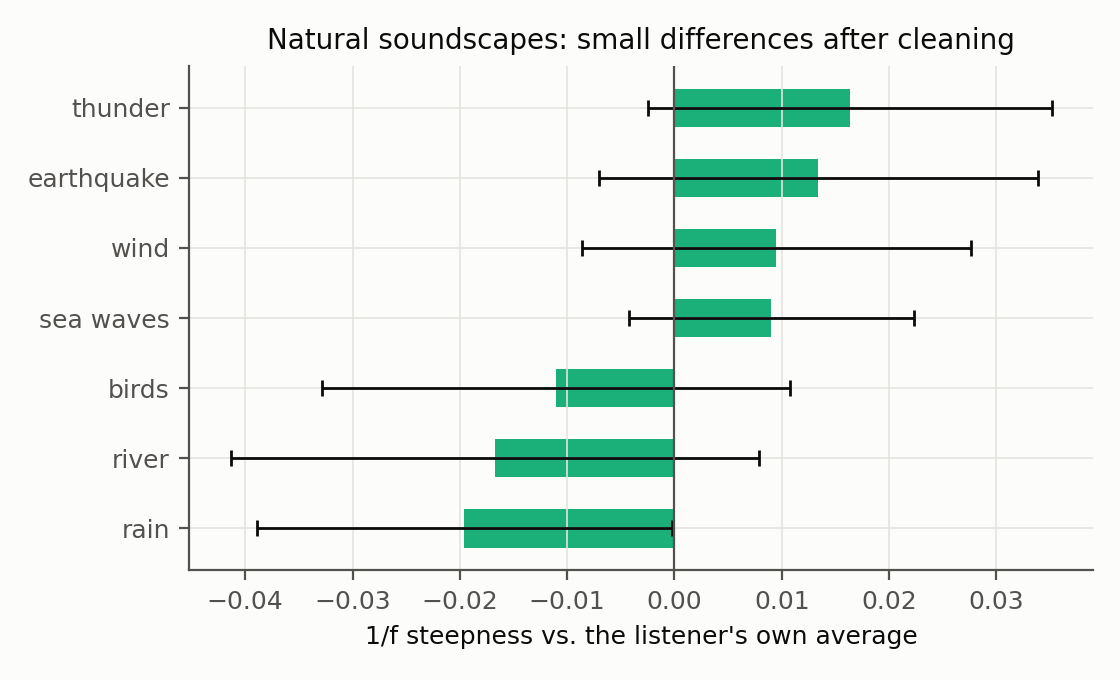
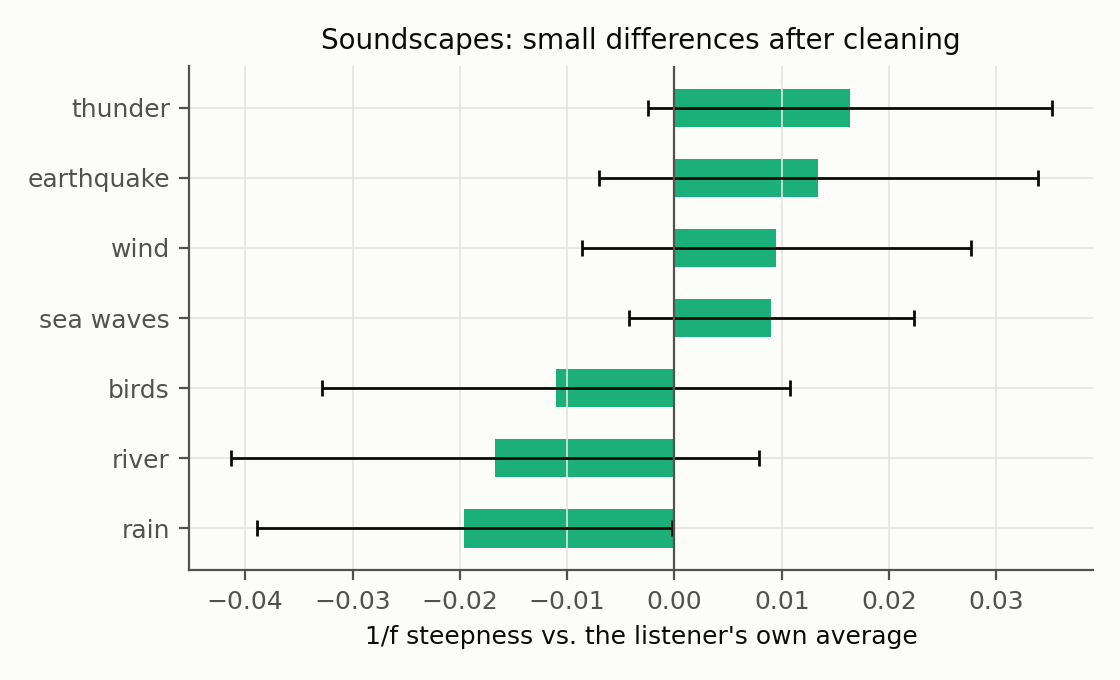
Both pages: 'sc' = SuperCollider imitation; movement-alpha by stimulus set; audio files received

Changed region(s): [[0.2188, 0.0309, 0.9062, 0.0926]]

diff --git a/es/index.html b/es/index.html
@@ -107,7 +107,7 @@ footer { margin-top: 60px; padding-top: 16px; border-top: 1px solid var(--line);
 <section>
   <h2>Qué hicimos</h2>
   <ol class="steps">
-    <li><b>Los sonidos.</b> 13 sonidos sintéticos creados en SuperCollider, cada bloque variando una propiedad (altura, envolvente, ancho de banda o parciales), y 14 grabaciones de paisajes sonoros naturales (pájaros, lluvia, río, olas, trueno, viento, terremoto), en dos versiones cada uno. Todos duraban 50 segundos, al mismo volumen.</li>
+    <li><b>Los sonidos.</b> 13 sonidos sintéticos creados en SuperCollider, cada bloque variando una propiedad (altura, envolvente, ancho de banda o parciales), y 7 paisajes sonoros naturales (pájaros, lluvia, río, olas, trueno, viento, terremoto), cada uno escuchado dos veces: primero como una imitación creada en SuperCollider y después como la grabación real. Todos duraban 50 segundos, al mismo volumen.</li>
     <li><b>El cerebro.</b> Mientras escuchaban, cada persona llevaba un gorro con 64 sensores (EEG) que captan los diminutos ritmos eléctricos del cerebro a través del cuero cabelludo. También registramos 3 minutos de reposo en silencio, con los ojos cerrados, antes y después.</li>
     <li><b>La experiencia.</b> Tras cada sonido, valoraban cuánto les agradaba, cuánto les activaba y cuánto control sentían, nombraban una emoción y describían la imagen que les evocaba: su color, tamaño, temperatura, textura y movimiento.</li>
   </ol>
@@ -139,7 +139,7 @@ footer { margin-top: 60px; padding-top: 16px; border-top: 1px solid var(--line);
     <div class="head"><span class="num">Hallazgo 1</span><span class="badge solid">sólido</span></div>
     <h3>Escuchar "enciende" el cerebro, sobre todo en la parte posterior de la cabeza</h3>
     <figure>
-      <div class="plate small"><img src="../figs/es/alpha_listening.png?v=202611181200" alt="Mapa de la cabeza visto desde arriba: la bajada de alfa es mayor (azul oscuro) en la parte posterior y menor (claro) delante y en los lados"></div>
+      <div class="plate small"><img src="../figs/es/alpha_listening.png?v=202611181330" alt="Mapa de la cabeza visto desde arriba: la bajada de alfa es mayor (azul oscuro) en la parte posterior y menor (claro) delante y en los lados"></div>
       <figcaption>La cabeza vista desde arriba (nariz arriba). Azul más oscuro = mayor bajada de alfa al escuchar respecto al reposo. El alfa bajó en todas partes, al menos 4 puntos porcentuales, así que la escala empieza en 4 para que se vea dónde bajó más.</figcaption>
     </figure>
     <div class="label">Qué vimos</div>
@@ -154,7 +154,7 @@ footer { margin-top: 60px; padding-top: 16px; border-top: 1px solid var(--line);
     <div class="head"><span class="num">Hallazgo 2</span><span class="badge promising">prometedor</span></div>
     <h3>Cuanto más movimiento imaginaban, menos alfa tenían</h3>
     <figure>
-      <div class="plate"><img src="../figs/es/movement_alpha.png?v=202611181200" alt="Gráfico de barras: el alfa de toda la cabeza está por encima de la media del oyente con imágenes quietas y baja escalón a escalón con movimiento lento, moderado y rápido"></div>
+      <div class="plate"><img src="../figs/es/movement_alpha.png?v=202611181330" alt="Gráfico de barras: el alfa de toda la cabeza está por encima de la media del oyente con imágenes quietas y baja escalón a escalón con movimiento lento, moderado y rápido"></div>
       <figcaption>Cada barra compara a las personas consigo mismas: cuánto alfa tenían con ese tipo de imagen, respecto a su propia media. Las líneas negras muestran la incertidumbre.</figcaption>
     </figure>
     <div class="label">Qué vimos</div>
@@ -162,7 +162,7 @@ footer { margin-top: 60px; padding-top: 16px; border-top: 1px solid var(--line);
     <div class="label">Por qué importa</div>
     <p>Une una medida cerebral con lo que las personas vivieron, que es justo de lo que trata el proyecto: el sonido percibido como algo que se mueve en el espacio. No se explica por lo activador o agradable que resultaba el sonido, y se mantiene al eliminar de los registros la actividad de ojos y músculos. Es aún más claro cuando la persona mencionaba expresamente una velocidad.</p>
     <div class="label">Un detalle intrigante</div>
-    <p>La relación va en la misma dirección con los sonidos sintéticos de SuperCollider y con los paisajes naturales, y parecía algo más fuerte con los sintéticos. Una idea: con una grabación de lluvia, la persona <i>reconoce</i> la fuente y ya sabe cómo se mueve; con un sonido sintético abstracto no hay fuente, así que el oyente tiene que <i>construir</i> el movimiento a partir del propio sonido. Pero la diferencia entre los dos tipos de sonido es pequeña y está lejos de ser estadísticamente clara, así que por ahora es solo una idea para el próximo estudio.</p>
+    <p>La relación fue más o menos igual de fuerte con los sonidos sintéticos abstractos y con las imitaciones de los paisajes hechas en SuperCollider, pero prácticamente desapareció con las grabaciones reales. Una idea: con una grabación de lluvia, la persona <i>reconoce</i> la fuente y ya sabe cómo se mueve; con un sonido sintetizado, aunque imite la lluvia, el oyente tiene que <i>construir</i> el movimiento a partir del propio sonido. La diferencia entre grabaciones y sonidos sintetizados aún no es estadísticamente clara, y las grabaciones reales siempre sonaron al final, así que por ahora es una hipótesis para el próximo estudio.</p>
     <div class="label">Cuidado</div>
     <p>Es una tendencia de grupo: algo más de la mitad de los oyentes (16 de 27) la muestran por sí solos. Es pequeña, está repartida por la cabeza en lugar de solo en la parte posterior, y la encontramos buscando entre muchas relaciones posibles. Hay que confirmarla con participantes nuevos.</p>
   </article>
@@ -171,7 +171,7 @@ footer { margin-top: 60px; padding-top: 16px; border-top: 1px solid var(--line);
     <div class="head"><span class="num">Hallazgo 3</span><span class="badge unclear">aún no se sabe</span></div>
     <h3>Cada tipo de sonido natural parecía dejar una huella distinta, pero puede venir de ojos y músculos</h3>
     <figure>
-      <div class="plate"><img src="../figs/es/soundscapes.png?v=202611181200" alt="Barras horizontales para siete paisajes sonoros: trueno y terremoto los más altos, lluvia y río los más bajos, todos con barras de error amplias"></div>
+      <div class="plate"><img src="../figs/es/soundscapes.png?v=202611181330" alt="Barras horizontales para siete paisajes sonoros: trueno y terremoto los más altos, lluvia y río los más bajos, todos con barras de error amplias"></div>
       <figcaption>La medida que más seguía diferenciando los paisajes tras la limpieza: la "pendiente" del espectro de la señal cerebral. Una pendiente más inclinada suele interpretarse como un estado cerebral más tranquilo, menos excitado. Las líneas negras muestran la incertidumbre, que es grande.</figcaption>
     </figure>
     <div class="label">Qué vimos</div>
@@ -184,7 +184,7 @@ footer { margin-top: 60px; padding-top: 16px; border-top: 1px solid var(--line);
     <div class="head"><span class="num">Hallazgo 4</span><span class="badge promising">prometedor</span></div>
     <h3>Entre los sonidos sintéticos, lo que más importó fue la envolvente</h3>
     <figure>
-      <div class="plate"><img src="../figs/es/envelope_theta.png?v=202611181200" alt="Gráfico de líneas de theta central para las cuatro envolventes, con un pico en la percusiva y una línea gris por oyente"></div>
+      <div class="plate"><img src="../figs/es/envelope_theta.png?v=202611181330" alt="Gráfico de líneas de theta central para las cuatro envolventes, con un pico en la percusiva y una línea gris por oyente"></div>
       <figcaption>Bloque 2: proporción de theta, un ritmo lento (4–8 ciclos por segundo), en el centro de la cabeza para cada envolvente. Azul = media de todos los oyentes con su incertidumbre; líneas grises = cada oyente.</figcaption>
     </figure>
     <p>Cambiar la envolvente (neutra, percusiva, de viento, on-off) cambió la actividad cerebral. La envolvente percusiva destacó: más actividad theta y, de forma aún más clara, una pendiente del espectro más inclinada en el centro de la cabeza. Cambiar la altura, el ancho de banda o los parciales no produjo diferencias claras. Los sonidos de cada bloque se pusieron siempre en el mismo orden, así que hay que confirmarlo.</p>
@@ -194,7 +194,7 @@ footer { margin-top: 60px; padding-top: 16px; border-top: 1px solid var(--line);
     <div class="head"><span class="num">Hallazgo 5</span><span class="badge solid">sólido</span></div>
     <h3>Las personas coinciden en cómo se sienten los sonidos, sobre todo en agrado y tamaño</h3>
     <figure>
-      <div class="plate"><img src="../figs/es/ratings.png?v=202611181200" alt="Gráficos de puntos con el agrado, la activación y el control medios de cada uno de los 27 sonidos, coloreados por bloque"></div>
+      <div class="plate"><img src="../figs/es/ratings.png?v=202611181330" alt="Gráficos de puntos con el agrado, la activación y el control medios de cada uno de los 27 sonidos, coloreados por bloque"></div>
       <figcaption>Valoración media de cada sonido (1–7) con su incertidumbre. Izquierda: agrado (valencia). Centro: activación. Derecha: sensación de control (dominancia).</figcaption>
     </figure>
     <p>Los sonidos se diferenciaron claramente en agrado, activación y control, y en el tamaño, la temperatura y el movimiento de las imágenes que evocaban. Cada persona es muy distinta, pero las medias del grupo son muy consistentes, sobre todo en agrado y tamaño imaginado. Pájaros y río fueron los más agradables; el bloque de parciales, la envolvente on-off y el terremoto, de los que menos.</p>
@@ -203,13 +203,13 @@ footer { margin-top: 60px; padding-top: 16px; border-top: 1px solid var(--line);
   <article class="finding">
     <div class="head"><span class="num">Hallazgo 6</span><span class="badge promising">prometedor</span></div>
     <h3>Los cerebros de los oyentes solo se sincronizaron con sonidos llenos de eventos, como el trueno</h3>
-    <p>Comprobamos si las señales cerebrales de distintas personas suben y bajan en los mismos momentos al escuchar el mismo sonido, como ocurre con películas o música. En general no fue así: con la mayoría de sonidos la sincronía no fue mayor que en reposo. La excepción fueron los sonidos con eventos claros y repentinos, sobre todo la grabación de trueno, y también las olas. Tiene sentido: nuestros sonidos son sobre todo texturas estables que evolucionan despacio, así que hay pocos momentos compartidos a los que los cerebros puedan "engancharse". Cuando lleguen los audios podremos comprobar si la sincronía sigue al número de eventos sonoros.</p>
+    <p>Comprobamos si las señales cerebrales de distintas personas suben y bajan en los mismos momentos al escuchar el mismo sonido, como ocurre con películas o música. En general no fue así: con la mayoría de sonidos la sincronía no fue mayor que en reposo. La excepción fueron los sonidos con eventos claros y repentinos, sobre todo la grabación de trueno, y también las olas. Tiene sentido: nuestros sonidos son sobre todo texturas estables que evolucionan despacio, así que hay pocos momentos compartidos a los que los cerebros puedan "engancharse". Con los audios ya podemos comprobar si la sincronía sigue al número de eventos sonoros.</p>
   </article>
 
   <article class="finding">
     <div class="head"><span class="num">Hallazgo 7</span><span class="badge unclear">aún no se sabe</span></div>
-    <h3>Sintéticos frente a naturales, y las dos versiones de cada paisaje</h3>
-    <p>Estas comparaciones muestran diferencias, pero no podemos interpretarlas por cómo estaba ordenada la sesión (ver abajo). Cuando tenemos en cuenta el momento de la sesión, la diferencia entre las dos versiones de los paisajes desaparece.</p>
+    <h3>Sonidos abstractos frente a paisajes, e imitaciones frente a grabaciones reales</h3>
+    <p>Las imitaciones de SuperCollider fueron con menos alfa y más actividad lenta (delta) que las grabaciones reales, y el bloque de paisajes se diferenció de los bloques abstractos. Pero no podemos interpretar estas diferencias por cómo estaba ordenada la sesión (ver abajo): los paisajes siempre iban al final, y cada imitación siempre antes que su grabación. Cuando tenemos en cuenta el momento de la sesión, la diferencia entre imitaciones y grabaciones desaparece.</p>
   </article>
 </section>
 
@@ -217,14 +217,14 @@ footer { margin-top: 60px; padding-top: 16px; border-top: 1px solid var(--line);
   <h2>La principal limitación, en un párrafo</h2>
   <div class="box warn">
     <h3>El orden de los sonidos no se barajó lo suficiente</h3>
-    <p>Todo el mundo escuchó los paisajes al final, la primera versión de cada paisaje antes que la segunda, y los sonidos de cada bloque sintético en el mismo orden. En una sesión larga la gente se cansa y se adormece, y eso por sí solo cambia la señal cerebral (el alfa era más alto en el reposo final que en el inicial). Así que cuando dos tipos de sonido iban siempre en el mismo orden, no podemos saber si una diferencia viene del sonido o del momento.</p>
+    <p>Todo el mundo escuchó los paisajes al final, la imitación de SuperCollider de cada paisaje antes que la grabación real, y los sonidos de cada bloque sintético en el mismo orden. En una sesión larga la gente se cansa y se adormece, y eso por sí solo cambia la señal cerebral (el alfa era más alto en el reposo final que en el inicial). Así que cuando dos tipos de sonido iban siempre en el mismo orden, no podemos saber si una diferencia viene del sonido o del momento.</p>
   </div>
 </section>
 
 <section>
   <h2>Próximos pasos</h2>
   <ol class="steps">
-    <li><b>Analizar los propios sonidos.</b> Medir la acústica de cada audio (ataques, modulaciones, brillo, rugosidad) y los parámetros de SuperCollider, para ver qué propiedades del sonido impulsan el movimiento imaginado y la respuesta cerebral.</li>
+    <li><b>Analizar los propios sonidos.</b> Ya tenemos los 27 audios y el código de SuperCollider. Siguiente paso: medir la acústica de cada archivo (sonoridad, ataques, modulaciones, brillo, rugosidad) para ver qué propiedades del sonido impulsan el movimiento imaginado y la respuesta cerebral.</li>
     <li><b>Hecho:</b> eliminada de los registros la actividad de ojos y músculos; medida la sincronía cerebral entre oyentes.</li>
     <li><b>Hecho:</b> una compañera codificó por su cuenta, sin ver la nuestra, una muestra de 120 descripciones de texto libre. El acuerdo fue casi perfecto en tamaño y temperatura, muy alto en intensidad del movimiento y bueno en dirección del movimiento.</li>
     <li><b>Diseñar el estudio principal</b> con el orden barajado para cada persona, más participantes y una escala sencilla de 1 a 7 para el movimiento imaginado, poniendo a prueba el hallazgo 2 y la idea de "movimiento construido frente a reconocido" como hipótesis prerregistradas.</li>
@@ -260,7 +260,7 @@ footer { margin-top: 60px; padding-top: 16px; border-top: 1px solid var(--line);
         <tr><td>Bajada de α, parieto-occipital frente a temporal</td><td>d<sub>z</sub> = −0,60 [−0,92; −0,32], q = ,040</td></tr>
         <tr><td>Movimiento → α (global, intra-oyente)</td><td>β = −0,033, r<sub>rm</sub> = −,13, q = ,005; con valencia, activación y dominancia β = −0,033, con gamma (indicador de EMG) β = −0,030, con efecto cruzado del estímulo β = −0,030 (todas p &lt; ,001); β = −0,062 cuando se indica la velocidad</td></tr>
         <tr><td>Movimiento → α con pendientes aleatorias</td><td>global p = ,13, parieto-occipital p = ,005; pendientes por oyente en dos etapas d<sub>z</sub> = −0,41, p = ,044 (16/27 negativas); sin diferencia posterior &gt; temporal (p = ,11)</td></tr>
-        <tr><td>Movimiento × tipo de estímulo</td><td>sintéticos β = −0,029 (p = ,018); paisajes β = −0,018 (p = ,12); interacción p = ,61</td></tr>
+        <tr><td>Movimiento × tipo de estímulo</td><td>sintéticos abstractos β = −0,029 (p = ,018); imitaciones de SuperCollider β = −0,028 (p = ,056); grabaciones reales β = −0,006 (p = ,71); grabación × movimiento p = ,64 (frente a todos los sintetizados), p = ,48 (frente a sus imitaciones)</td></tr>
         <tr><td>Movimiento → α, medidas originales (sin ICA)</td><td>β = −0,037, p &lt; ,0001; con efecto cruzado del estímulo p = ,0002</td></tr>
         <tr><td>Categoría de paisaje (exponente 1/f, global)</td><td>tras ICA F = 2,52, p<sub>GG</sub> = ,045, η²<sub>p</sub> = ,09 (clúster de canales q = ,026); antes de ICA F = 4,05, p<sub>GG</sub> = ,003</td></tr>
         <tr><td>Correlación entre sujetos (CorrCA, 3 componentes)</td><td>estímulos frente a reposo d<sub>z</sub> = −0,01, p = ,96; trueno ISC = ,046, p = ,002 (q = ,054); olas ,031, p = ,012</td></tr>
@@ -275,7 +275,7 @@ footer { margin-top: 60px; padding-top: 16px; border-top: 1px solid var(--line);
 </section>
 
 <footer>
-  <p>Resultados preliminares de un estudio piloto en curso; las cifras pueden cambiar antes de la publicación. Solo se muestran resultados de grupo. Pendiente: el significado de la etiqueta "sc" de la primera versión de los paisajes.</p>
+  <p>Resultados preliminares de un estudio piloto en curso; las cifras pueden cambiar antes de la publicación. Solo se muestran resultados de grupo.</p>
 </footer>
 </div>
 </body>

diff --git a/index.html b/index.html
@@ -107,7 +107,7 @@ footer { margin-top: 60px; padding-top: 16px; border-top: 1px solid var(--line);
 <section>
   <h2>What we did</h2>
   <ol class="steps">
-    <li><b>The sounds.</b> 13 synthetic sounds built in SuperCollider, each block changing one property (pitch, envelope, bandwidth or partials), and 14 recordings of natural soundscapes (birds, rain, river, sea waves, thunder, wind, earthquake), in two versions each. Every sound lasted 50 seconds, all at the same loudness.</li>
+    <li><b>The sounds.</b> 13 synthetic sounds built in SuperCollider, each block changing one property (pitch, envelope, bandwidth or partials), and 7 natural soundscapes (birds, rain, river, sea waves, thunder, wind, earthquake), each heard twice: first as an imitation built in SuperCollider, then as the real recording. Every sound lasted 50 seconds, all at the same loudness.</li>
     <li><b>The brain.</b> While listening, each person wore a cap with 64 sensors (EEG) that pick up the tiny electrical rhythms of the brain through the scalp. We also recorded 3 minutes of quiet rest, eyes closed, before and after.</li>
     <li><b>The experience.</b> After each sound, people rated how pleasant, how activating and how "in control" it felt, named an emotion, and described the image it evoked: its colour, size, temperature, texture and movement.</li>
   </ol>
@@ -139,7 +139,7 @@ footer { margin-top: 60px; padding-top: 16px; border-top: 1px solid var(--line);
     <div class="head"><span class="num">Finding 1</span><span class="badge solid">solid</span></div>
     <h3>Listening switches the brain on, especially at the back of the head</h3>
     <figure>
-      <div class="plate small"><img src="figs/en/alpha_listening.png?v=202611181200" alt="Head map seen from above: the alpha drop is largest (dark blue) over the back of the head and smallest (pale) at the front and sides"></div>
+      <div class="plate small"><img src="figs/en/alpha_listening.png?v=202611181330" alt="Head map seen from above: the alpha drop is largest (dark blue) over the back of the head and smallest (pale) at the front and sides"></div>
       <figcaption>The head seen from above (nose at the top). Darker blue = a bigger drop in alpha while listening compared with resting. Alpha dropped everywhere, by at least 4 percentage points, so the colour scale starts at 4 to show where the drop was largest.</figcaption>
     </figure>
     <div class="label">What we saw</div>
@@ -154,7 +154,7 @@ footer { margin-top: 60px; padding-top: 16px; border-top: 1px solid var(--line);
     <div class="head"><span class="num">Finding 2</span><span class="badge promising">promising</span></div>
     <h3>The more movement people imagined, the less alpha they had</h3>
     <figure>
-      <div class="plate"><img src="figs/en/movement_alpha.png?v=202611181200" alt="Bar chart: alpha over the whole head is above the listener's average for still images and falls step by step for slow, moderate and fast imagined movement"></div>
+      <div class="plate"><img src="figs/en/movement_alpha.png?v=202611181330" alt="Bar chart: alpha over the whole head is above the listener's average for still images and falls step by step for slow, moderate and fast imagined movement"></div>
       <figcaption>Each bar compares people with themselves: how much alpha they had with that kind of image, relative to their own average. The black lines show the uncertainty.</figcaption>
     </figure>
     <div class="label">What we saw</div>
@@ -162,7 +162,7 @@ footer { margin-top: 60px; padding-top: 16px; border-top: 1px solid var(--line);
     <div class="label">Why it matters</div>
     <p>It links a brain measure to what people actually experienced, which is exactly what the project is about: sound perceived as something that moves in space. It is not explained by how activating or pleasant the sound felt, and it survives removing eye and muscle activity from the recordings. It is clearer still when people explicitly mentioned a speed.</p>
     <div class="label">An intriguing detail</div>
-    <p>The link goes in the same direction for the synthetic SuperCollider sounds and for the natural soundscapes, and looked somewhat stronger for the synthetic ones. One idea: with a recording of rain, people <i>recognise</i> the source and already know how it moves; with an abstract synthetic sound there is no source, so the listener has to <i>build</i> the movement from the sound itself. But the difference between the two kinds of sound is small and far from statistically clear, so for now this is only an idea to test in the next study.</p>
+    <p>The link was about equally strong for the abstract synthetic sounds and for the SuperCollider imitations of the soundscapes, but practically absent for the real recordings. One idea: with a recording of rain, people <i>recognise</i> the source and already know how it moves; with a synthesised sound, even one imitating rain, the listener has to <i>build</i> the movement from the sound itself. The difference between recordings and synthesised sounds is not yet statistically clear, and the real recordings always came last, so for now this is a hypothesis to test in the next study.</p>
     <div class="label">Be careful</div>
     <p>It is a group trend: a bit more than half of the listeners (16 of 27) show it on their own. It is small, it is spread over the head rather than only at the back, and we found it while searching through many possible links. It needs to be confirmed with new participants.</p>
   </article>
@@ -171,7 +171,7 @@ footer { margin-top: 60px; padding-top: 16px; border-top: 1px solid var(--line);
     <div class="head"><span class="num">Finding 3</span><span class="badge unclear">can't tell yet</span></div>
     <h3>Each kind of natural sound seemed to leave a different trace, but it may come from the eyes and muscles</h3>
     <figure>
-      <div class="plate"><img src="figs/en/soundscapes.png?v=202611181200" alt="Horizontal bars for seven soundscapes: thunder and earthquake highest, rain and river lowest, all with wide error bars"></div>
+      <div class="plate"><img src="figs/en/soundscapes.png?v=202611181330" alt="Horizontal bars for seven soundscapes: thunder and earthquake highest, rain and river lowest, all with wide error bars"></div>
       <figcaption>The measure that still differed most between soundscapes after cleaning: the "steepness" of the brain signal's spectrum. A steeper spectrum is usually read as a calmer, less excited brain state. The black lines show the uncertainty, which is large.</figcaption>
     </figure>
     <div class="label">What we saw</div>
@@ -184,7 +184,7 @@ footer { margin-top: 60px; padding-top: 16px; border-top: 1px solid var(--line);
     <div class="head"><span class="num">Finding 4</span><span class="badge promising">promising</span></div>
     <h3>Among the synthetic sounds, the envelope mattered most</h3>
     <figure>
-      <div class="plate"><img src="figs/en/envelope_theta.png?v=202611181200" alt="Line plot of central theta for the four envelopes, peaking for the percussive envelope, with one grey line per listener"></div>
+      <div class="plate"><img src="figs/en/envelope_theta.png?v=202611181330" alt="Line plot of central theta for the four envelopes, peaking for the percussive envelope, with one grey line per listener"></div>
       <figcaption>Block 2: share of theta, a slow rhythm (4–8 cycles per second), at the centre of the head for each envelope. Blue = average of all listeners with its uncertainty; grey lines = individual listeners.</figcaption>
     </figure>
     <p>Changing the envelope (neutral, percussive, wind-like, on-off) changed brain activity. The percussive envelope stood out: more slow theta activity and, even more clearly, a steeper spectrum at the centre of the head. Changing pitch, bandwidth or partials did not produce clear differences. The sounds within each block were always played in the same order, so this needs confirming.</p>
@@ -194,7 +194,7 @@ footer { margin-top: 60px; padding-top: 16px; border-top: 1px solid var(--line);
     <div class="head"><span class="num">Finding 5</span><span class="badge solid">solid</span></div>
     <h3>People agree on how sounds feel, especially on pleasantness and size</h3>
     <figure>
-      <div class="plate"><img src="figs/en/ratings.png?v=202611181200" alt="Dot plots of average pleasantness, activation and control for each of the 27 sounds, coloured by block"></div>
+      <div class="plate"><img src="figs/en/ratings.png?v=202611181330" alt="Dot plots of average pleasantness, activation and control for each of the 27 sounds, coloured by block"></div>
       <figcaption>Average rating of every sound (1–7) with its uncertainty. Left: pleasantness (valence). Middle: activation (arousal). Right: feeling in control (dominance).</figcaption>
     </figure>
     <p>The sounds clearly differed in how pleasant, activating and controllable they felt, and in the size, temperature and movement of the images they evoked. Individuals vary a lot, but the group averages are very consistent, especially for pleasantness and imagined size. Birds and river were the most pleasant; the partials block, the on-off envelope and earthquake were among the least.</p>
@@ -203,13 +203,13 @@ footer { margin-top: 60px; padding-top: 16px; border-top: 1px solid var(--line);
   <article class="finding">
     <div class="head"><span class="num">Finding 6</span><span class="badge promising">promising</span></div>
     <h3>Listeners' brains only fell into step with sounds full of events, like thunder</h3>
-    <p>We checked whether the brain signals of different people rise and fall at the same moments while hearing the same sound, as happens with films or music. Overall they did not: for most sounds the synchrony was no higher than during rest. The exception was the sounds with clear, sudden events, above all the thunder recording, and also the sea waves. This makes sense: our sounds are mostly steady textures that unfold slowly, so there are few shared moments for brains to lock onto. When the audio files arrive we can test whether synchrony follows the number of sound events.</p>
+    <p>We checked whether the brain signals of different people rise and fall at the same moments while hearing the same sound, as happens with films or music. Overall they did not: for most sounds the synchrony was no higher than during rest. The exception was the sounds with clear, sudden events, above all the thunder recording, and also the sea waves. This makes sense: our sounds are mostly steady textures that unfold slowly, so there are few shared moments for brains to lock onto. With the audio files we can now test whether synchrony follows the number of sound events.</p>
   </article>
 
   <article class="finding">
     <div class="head"><span class="num">Finding 7</span><span class="badge unclear">can't tell yet</span></div>
-    <h3>Synthetic vs natural sounds, and the two versions of each soundscape</h3>
-    <p>These comparisons show differences, but we cannot interpret them because of how the session was ordered (see below). When we account for the time in the session, the difference between the two soundscape versions disappears.</p>
+    <h3>Abstract sounds vs soundscapes, and imitations vs real recordings</h3>
+    <p>The SuperCollider imitations went with less alpha and more slow (delta) activity than the real recordings, and the soundscape block differed from the abstract blocks. But we cannot interpret these differences because of how the session was ordered (see below): the soundscapes always came last, and each imitation always came before its recording. When we account for the time in the session, the difference between imitations and recordings disappears.</p>
   </article>
 </section>
 
@@ -217,14 +217,14 @@ footer { margin-top: 60px; padding-top: 16px; border-top: 1px solid var(--line);
   <h2>The main limitation, in one paragraph</h2>
   <div class="box warn">
     <h3>The order of the sounds was not shuffled enough</h3>
-    <p>Everyone heard the soundscapes at the end, the first version of each soundscape before the second, and the sounds within each synthetic block in the same order. Over a long session people get tired and drowsy, which by itself changes the brain signal (alpha was higher in the final rest than in the first). So whenever two kinds of sound were always in the same order, we can't tell whether a difference comes from the sound or from the time.</p>
+    <p>Everyone heard the soundscapes at the end, the SuperCollider imitation of each soundscape before the real recording, and the sounds within each synthetic block in the same order. Over a long session people get tired and drowsy, which by itself changes the brain signal (alpha was higher in the final rest than in the first). So whenever two kinds of sound were always in the same order, we can't tell whether a difference comes from the sound or from the time.</p>
   </div>
 </section>
 
 <section>
   <h2>What comes next</h2>
   <ol class="steps">
-    <li><b>Analyse the sounds themselves.</b> Measure the acoustics of each audio file (attacks, modulations, brightness, roughness) and the SuperCollider parameters, to see which sound properties drive the imagined movement and the brain response.</li>
+    <li><b>Analyse the sounds themselves.</b> We now have the 27 audio files and the SuperCollider code. Next: measure the acoustics of each file (loudness, attacks, modulations, brightness, roughness) to see which sound properties drive the imagined movement and the brain response.</li>
     <li><b>Done:</b> eye and muscle activity removed from the recordings; brain synchrony between listeners measured.</li>
     <li><b>Done:</b> a colleague independently coded a sample of 120 free-text descriptions, without seeing ours. Agreement was almost perfect for size and temperature, very high for movement intensity and good for movement direction.</li>
     <li><b>Design the main study</b> with the order shuffled for every person, more participants and a simple 1–7 scale for imagined movement, testing finding 2 and the "built vs recognised movement" idea as pre-registered hypotheses.</li>
@@ -260,7 +260,7 @@ footer { margin-top: 60px; padding-top: 16px; border-top: 1px solid var(--line);
         <tr><td>α drop, parieto-occipital vs temporal</td><td>dz = −0.60 [−0.92, −0.32], q = .040</td></tr>
         <tr><td>Movement → α (global, within-listener)</td><td>β = −0.033, r<sub>rm</sub> = −.13, q = .005; with arousal/valence/dominance β = −0.033, with gamma (EMG proxy) β = −0.030, with crossed stimulus effect β = −0.030 (all p &lt; .001); β = −0.062 when speed is stated</td></tr>
         <tr><td>Movement → α with listener random slopes</td><td>global p = .13, parieto-occipital p = .005; two-stage per-listener slopes dz = −0.41, p = .044 (16/27 negative); no posterior &gt; temporal difference (p = .11)</td></tr>
-        <tr><td>Movement × stimulus set</td><td>synthetic β = −0.029 (p = .018); soundscapes β = −0.018 (p = .12); interaction p = .61</td></tr>
+        <tr><td>Movement × stimulus set</td><td>abstract synthetic β = −0.029 (p = .018); SuperCollider imitations β = −0.028 (p = .056); real recordings β = −0.006 (p = .71); recording × movement p = .64 (vs all synthesised), p = .48 (vs own imitations)</td></tr>
         <tr><td>Movement → α, original features (no ICA)</td><td>β = −0.037, p &lt; .0001; with crossed stimulus effect p = .0002</td></tr>
         <tr><td>Soundscape category (1/f exponent, global)</td><td>after ICA F = 2.52, p<sub>GG</sub> = .045, η²<sub>p</sub> = .09 (channel cluster q = .026); before ICA F = 4.05, p<sub>GG</sub> = .003</td></tr>
         <tr><td>Inter-subject correlation (CorrCA, 3 components)</td><td>stimuli vs rest dz = −0.01, p = .96; thunder ISC = .046, p = .002 (q = .054); sea waves .031, p = .012</td></tr>
@@ -275,7 +275,7 @@ footer { margin-top: 60px; padding-top: 16px; border-top: 1px solid var(--line);
 </section>
 
 <footer>
-  <p>Preliminary results of an ongoing pilot study; numbers may change before publication. Only group-level results are shown. Pending: the meaning of the "sc" label of the first soundscape version.</p>
+  <p>Preliminary results of an ongoing pilot study; numbers may change before publication. Only group-level results are shown.</p>
 </footer>
 </div>
 </body>
